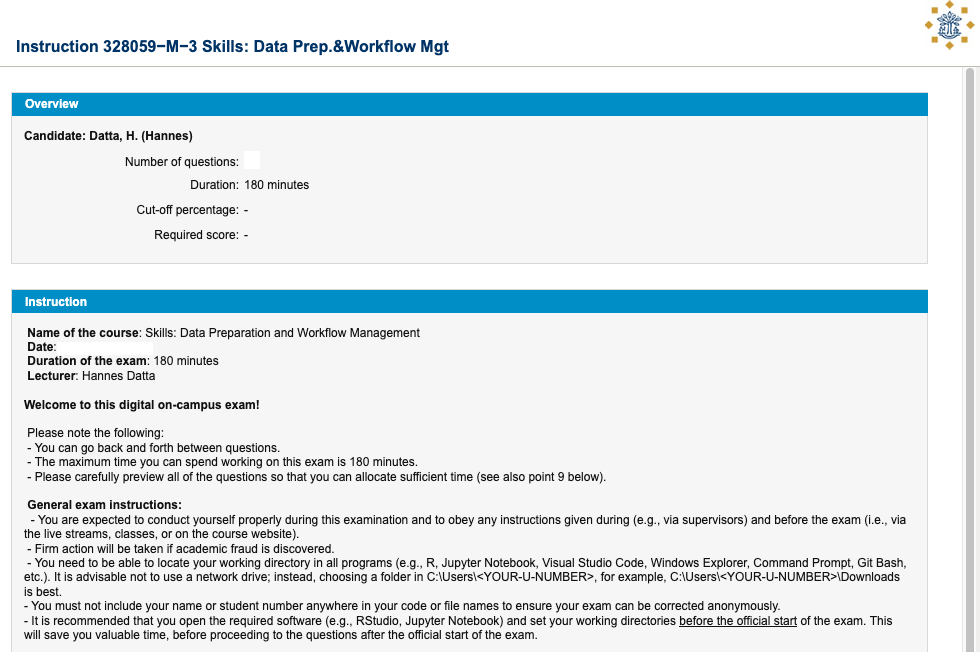
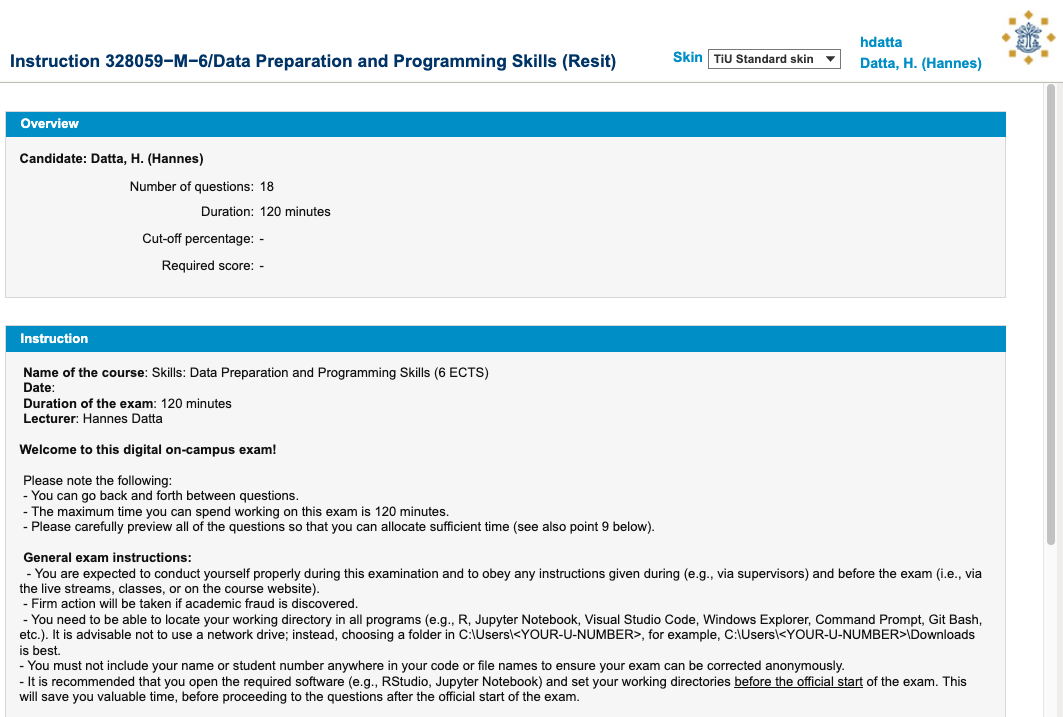
revise screenshots and deck

Changed region(s): [[0.0, 0.4294, 0.949, 0.9816], [0.0, 0.0, 1.0, 0.3988], [0.9796, 0.7362, 1.0, 1.0]]

diff --git a/material/exam/exam_prep.html b/material/exam/exam_prep.html
@@ -7,7 +7,7 @@
 <meta name="viewport" content="width=device-width, initial-scale=1.0, user-scalable=yes">
 
 <meta name="author" content="Hannes Datta">
-<meta name="dcterms.date" content="2025-09-28">
+<meta name="dcterms.date" content="2026-03-09">
 
 <title>Exam Preparation</title>
 <style>
@@ -66,7 +66,7 @@ ul.task-list li input[type="checkbox"] {
     <div>
     <div class="quarto-title-meta-heading">Published</div>
     <div class="quarto-title-meta-contents">
-      <p class="date">September 28, 2025</p>
+      <p class="date">March 9, 2026</p>
     </div>
   </div>
   
@@ -80,15 +80,13 @@ ul.task-list li input[type="checkbox"] {
 
 <section id="introduction" class="level1">
 <h1>Introduction</h1>
-<p><em>originally published on 26 September; updated on 28 September, slightly rewriting questions in line with the actual exam &amp; adding the number of points per question)</em></p>
 <section id="overview" class="level2">
 <h2 class="anchored" data-anchor-id="overview">Overview</h2>
-<p>The exam for this course is a <strong>120-minute on-campus computer exam</strong> (course code 328059-M-6), taken in <a href="https://TilburgU.testvision.nl/online/kandidaten">TestVision</a>. It is a <strong>closed-book exam with no internet access</strong>, though students may download selected cheat sheets from the exam’s introduction page.</p>
-<p>Students taking the discontinued 3 ECTS version should prepare using the exam material from the previous semester.</p>
+<p>The exam for this course is a <strong>120-minute on-campus computer exam</strong> (course code 328059-M-6), taken in <a href="https://TilburgU.testvision.nl/online/kandidaten">TestVision</a>. It is a <strong>closed-book exam without internet access</strong>, though students may download selected cheat sheets from the exam’s introduction page.</p>
 <p>Key points to keep in mind:</p>
 <ul>
 <li>four exam dates are offered each academic year, of which students may take part in at most two.</li>
-<li>only the official exam “cheatsheets” are permitted; no other resources or communication tools are allowed.</li>
+<li>only the official exam cheatsheets are permitted; no other resources or communication tools are allowed.</li>
 <li>communication with others about the exam is strictly forbidden.</li>
 <li>do not include your name or student number in submitted files unless explicitly asked, to ensure anonymous grading.</li>
 </ul>
@@ -186,7 +184,13 @@ ul.task-list li input[type="checkbox"] {
 </div>
 </div>
 <p>Please download the <a href="https://github.com/hannesdatta/course-dprep/raw/main/material/exam/example_engineering/netflix_data.zip"><code>netflix_data</code></a> file, containing an <code>.RData</code> environment that itself contains R objects (datasets). To receive points on this question, please create and upload one R file (.R) that performs the task as requested.</p>
-<p>Important: - Load the data using: load(“name_of_the_file.RData”) # use the correct file name as per your download - Apply the Setup – Input – Transform – Output (S-I-T-O) principles used in class. - Submit your work as a clean .R script (NOT RMarkdown). Ensure the code runs top to bottom. - Do not include your name or student number anywhere in the code.</p>
+<p>Important:</p>
+<ul>
+<li>Load the data using: load(“name_of_the_file.RData”) # use the correct file name as per your download</li>
+<li>Apply the Setup – Input – Transform – Output (S-I-T-O) principles used in class.</li>
+<li>Submit your work as a clean .R script (NOT RMarkdown). Ensure the code runs top to bottom.</li>
+<li>Do not include your name or student number anywhere in the code.</li>
+</ul>
 <p><strong><code>netflix_data</code>:</strong></p>
 <ul>
 <li><code>show_id</code>: content identifier</li>
@@ -993,16 +997,30 @@ write_csv(effect_sizes, 'regression_results.csv')</code></pre>
 <p>This section provides information that will help you prepare well for the exam.</p>
 <section id="cheatsheets" class="level2">
 <h2 class="anchored" data-anchor-id="cheatsheets">Cheatsheets</h2>
-<p>Students will have access to <strong>official cheatsheets</strong> during the exam. These cover the main tools used in this course—<strong>R</strong>, <strong>make</strong>, and <strong>Git</strong>—and are the same ones provided throughout the tutorials. Cheatsheets from previous years can already be downloaded <a href="https://github.com/hannesdatta/course-dprep/raw/main/material/exam/cheatsheets/cheatsheets-exam.zip">here</a>. Ahead of the exam, there will be a short Q&amp;A session where you can suggest additional cheat sheet ideas to the instructor; the final set of official cheatsheets will then be compiled and published.</p>
-<p>In addition, the class will have the opportunity to prepare <strong>one collective cheatsheet</strong>. This is typically best drafted in Google Docs, so all students can contribute ideas. Once complete, the cheatsheet will be reviewed by the instructor, converted into PDF format, and shared with everyone as part of the final set of materials for the exam.</p>
+<p>Students will have access to <strong>cheatsheets</strong> during the exam, consisting of official cheatsheets used throughout the course (e.g., on Base R, on `<code>ggplot</code>), and one collective cheatsheet created by students.</p>
+<section id="official-cheatsheets-used-throughout-the-course" class="level3">
+<h3 class="anchored" data-anchor-id="official-cheatsheets-used-throughout-the-course">Official cheatsheets used throughout the course</h3>
+<p>The official cheatsheets used throughout the course cover the main tools – <strong>R</strong>, <strong>make</strong>, and <strong>Git</strong>. Cheatsheets from previous years can already be downloaded <a href="https://github.com/hannesdatta/course-dprep/raw/main/material/exam/cheatsheets/cheatsheets-exam.zip">here</a>. Ahead of the exam, there will be a short Q&amp;A session where you can suggest additional cheat sheet ideas to the instructor; the final set of official cheatsheets will then be compiled and published.</p>
+</section>
+<section id="collective-cheatsheet" class="level3">
+<h3 class="anchored" data-anchor-id="collective-cheatsheet">Collective cheatsheet</h3>
+<p>Students are advised to prepare one <strong>collective cheatsheet</strong> in Google Docs. Once complete, the cheatsheet will be reviewed by the instructor, converted into PDF format, and shared with everyone as part of the final set of materials for the exam.</p>
 <ul>
-<li><strong>Collective Cheatsheet Details</strong>:
-<ul>
-<li><a href="https://docs.google.com/document/d/1ufyP0bcndNBltN6efJ87HdI0nthpgMQVSS-Flyr-zpU/edit?usp=sharing">Link to the document</a></li>
-<li><strong>Deadline to make your changes</strong>: 10 October 2025, 1pm.</li>
-<li>The instructor will review the document, make changes where required, and add it to the Cheatsheets.</li>
-</ul></li>
+<li><a href="https://docs.google.com/document/d/1nLEkypEmP3dTkljidmAiGmHptm0Bfe44LnwaYUnkdnU/edit?usp=sharing">Link to Google Docs</a> (please use your Tilburg University email address to log in)</li>
+<li>Page limit: 50 pages</li>
+<li>Deadline to make your changes: 25 March 2026, 10am</li>
 </ul>
+<div class="callout callout-style-simple callout-none no-icon">
+<div class="callout-body d-flex">
+<div class="callout-icon-container">
+<i class="callout-icon no-icon"></i>
+</div>
+<div class="callout-body-container">
+<p>The instructor will review the document, make changes where required, and add it to the Cheatsheets.</p>
+</div>
+</div>
+</div>
+</section>
 </section>
 <section id="ideas-for-developing-your-proficiency" class="level2">
 <h2 class="anchored" data-anchor-id="ideas-for-developing-your-proficiency">Ideas for developing your proficiency</h2>
